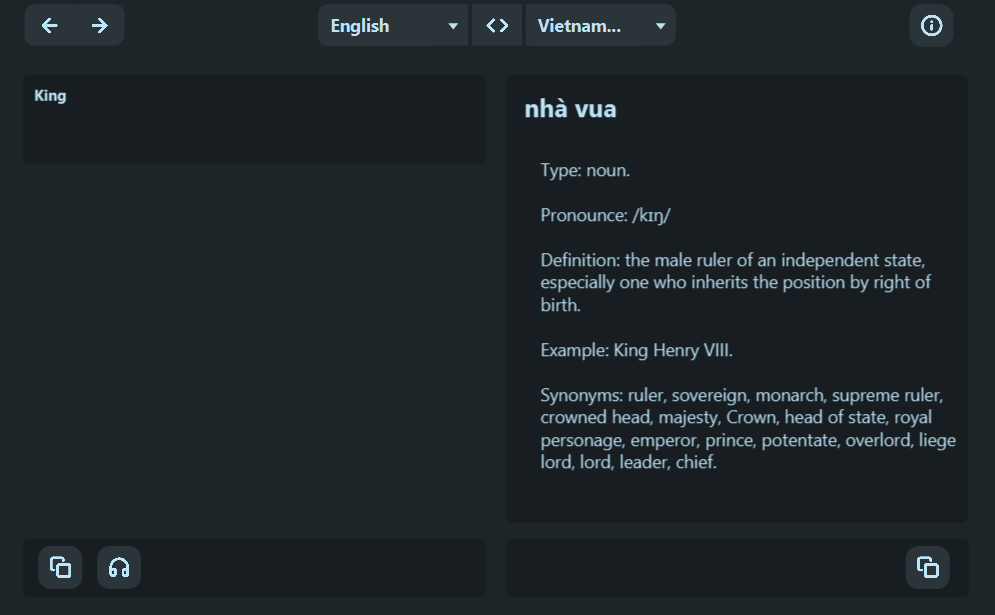
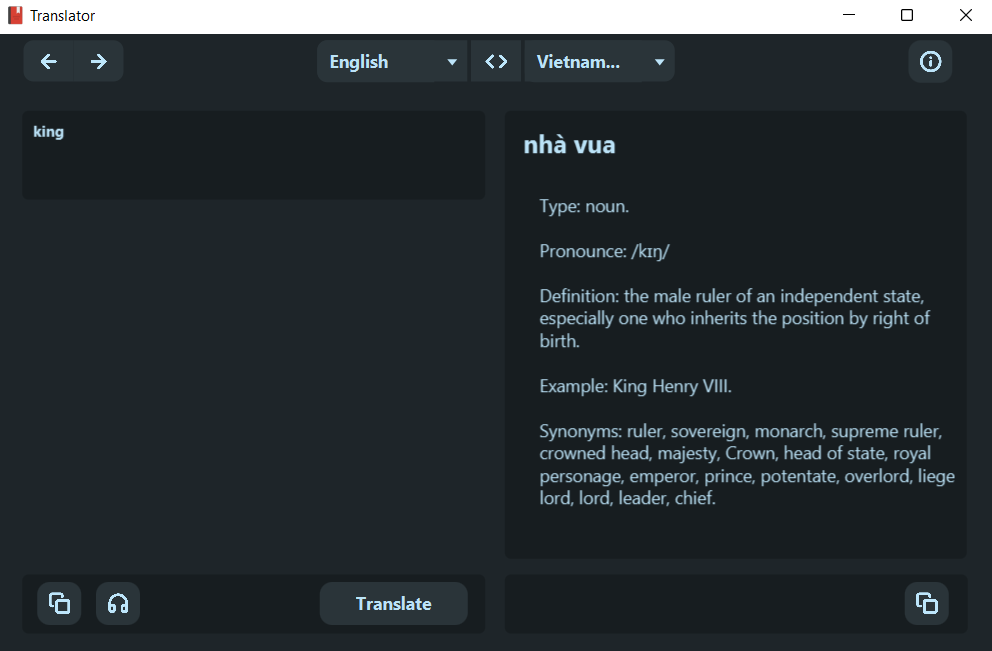
readme

diff --git a/src/main/java/translator/gui/controllers/DashboardController.java b/src/main/java/translator/gui/controllers/DashboardController.java
@@ -22,7 +22,6 @@ import javafx.scene.Scene;
 import javafx.scene.input.Clipboard;
 import javafx.scene.input.ClipboardContent;
 import javafx.scene.input.KeyCode;
-import javafx.scene.input.KeyEvent;
 import javafx.scene.input.MouseEvent;
 import java.util.HashMap;
 import translator.api.Translate;
@@ -86,6 +85,9 @@ public class DashboardController implements Initializable{
     private JFXButton aboutButton;
 
     @FXML
+    private JFXButton translateButton;
+
+    @FXML
     private JFXComboBox<String> selectSourceBox;
 
     @FXML
@@ -124,6 +126,11 @@ public class DashboardController implements Initializable{
         clipboard.setContent(content);
     }
 
+
+    @FXML
+    void translate(ActionEvent event) {
+        run();
+    }
 
     // @FXML
     // void inputText(ActionEvent event) {
@@ -234,13 +241,6 @@ public class DashboardController implements Initializable{
 
     @Override
     public void initialize(URL arg0, ResourceBundle arg1) {
-
-        // InputTextField.setOnKeyPressed(event -> {
-        //     if (event.getCode().equals(KeyCode.ENTER)) {
-        //         run();
-        //         event.consume();
-        //     }
-        // });
 
         InputTextField.setOnKeyPressed(event -> {
             if (event.isShiftDown()) {

diff --git a/README.md b/README.md
@@ -1,9 +1,65 @@
-# Introduction
-OOP Project. UET-VNU.
+## OOP Project. UET-VNU
 
-### Demo
+### Introduction
+
+Dictionary Java project for UET-VNU OOP course. Online dictionary, multi-language support.
+
+Contributor: [@hoangndst](https://github.com/hoangndst), [@naslth](https://github.com/naslth).
+
+### Demo Image
 ![GUI Demo](demo/dashboard.png)
+
+
+### Results obtained after calling Translate API
+
+```json
+{
+  "sourseWord": "king",
+  "source": "",
+  "target": "vi",
+  "targetWord": "nhà vua",
+  "type": [
+    "noun",
+    "verb"
+  ],
+  "definition": [
+    "the male ruler of an independent state, especially one who inherits the position by right of birth.",
+    "make (someone) king."
+  ],
+  "example": [
+    "King Henry VIII",
+    null
+  ],
+  "synonyms": [
+    [
+      "ruler",
+      "sovereign",
+      "monarch",
+      "supreme ruler",
+      "crowned head",
+      "majesty",
+      "Crown",
+      "head of state",
+      "royal personage",
+      "emperor",
+      "prince",
+      "potentate",
+      "overlord",
+      "liege lord",
+      "lord",
+      "leader",
+      "chief"
+    ],
+    []
+  ],
+  "pronounce": "kɪŋ",
+  "audio": "//ssl.gstatic.com/dictionary/static/sounds/20200429/king--1_gb_1.mp3"
+}
+```
 
 ### Libraries
 - [JavaFX](https://openjfx.io/)
 - [JFoenix](http://www.jfoenix.com/)
+
+### License
+[MIT](https://choosealicense.com/licenses/mit/)
